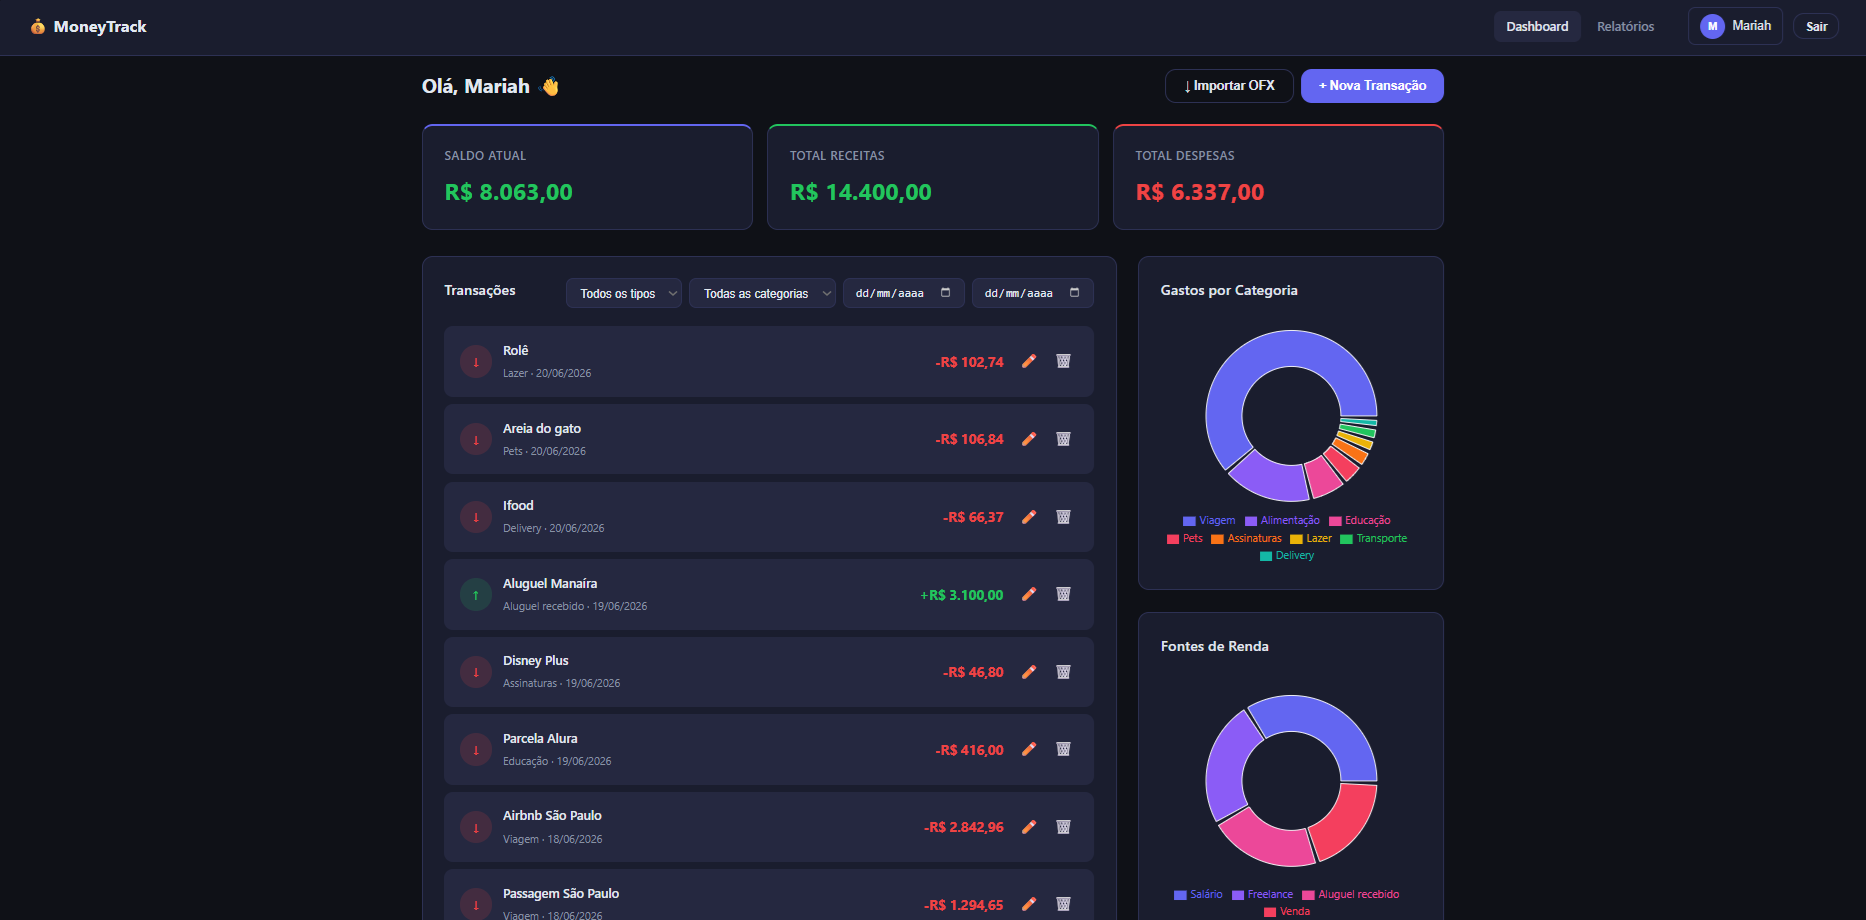
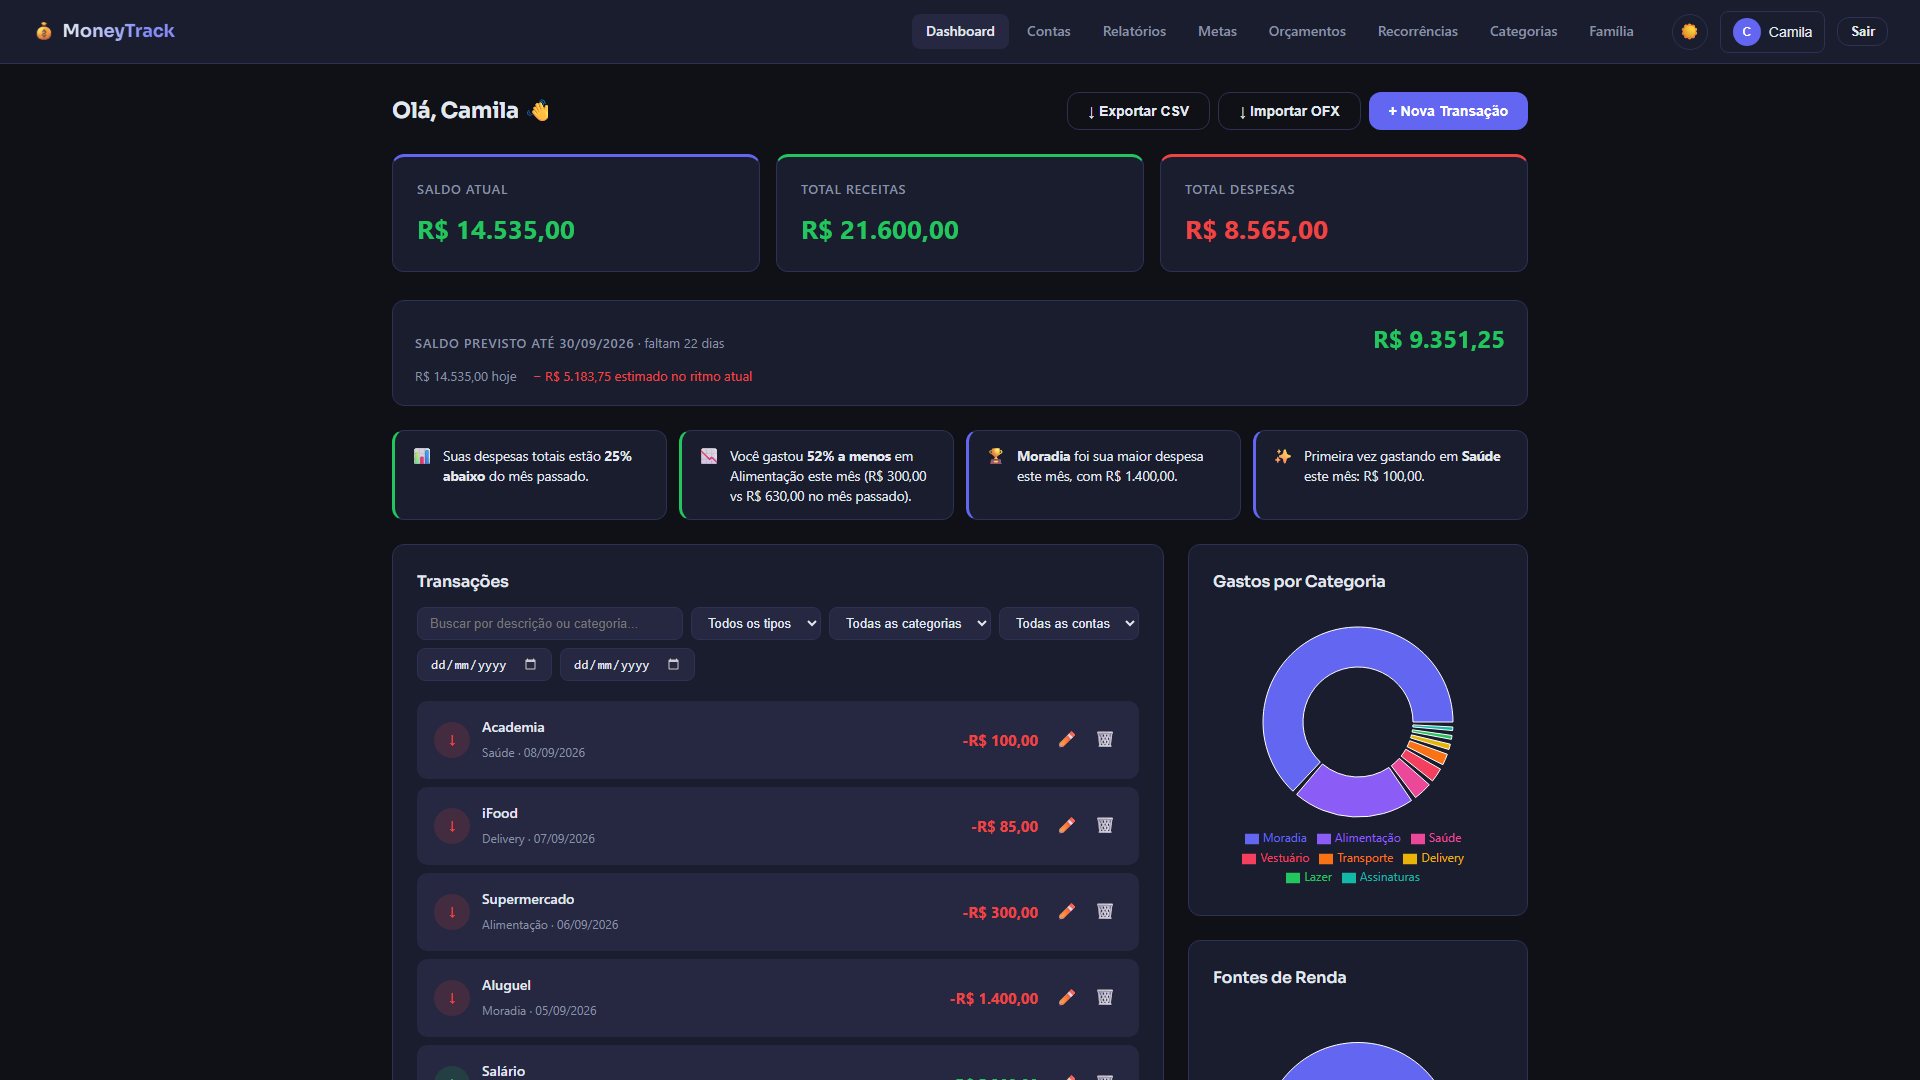
docs: atualiza landing page e screenshots com as novas funcionalidades
- Adiciona 10 novos cards de funcionalidade na Landing (insights automáticos, sincronização Open Finance, projeção de saldo, relatório em PDF, categorias personalizadas, anexo de comprovante, histórico de edição, aviso de orçamento por e-mail, contas compartilhadas e instalação no celular)
- Atualiza o texto do hero e da seção "O que é o MoneyTrack" pra mencionar sincronização bancária, compartilhamento em família e instalação via PWA
- Atualiza moneytrack_dashboard.png, moneytrack_relatorio.png, moneytrack_landing.png e moneytrack_perfil.png com capturas do app atual (conta de demonstração com histórico de 4 meses, metas e orçamentos), substituindo as capturas antigas de antes do Tier 2/3/4

diff --git a/frontend/src/pages/Landing.jsx b/frontend/src/pages/Landing.jsx
@@ -64,7 +64,7 @@ export default function Landing() {
 
       <section className="hero">
         <h1>Controle suas finanças<br /><span className="gradient-text">com inteligência</span></h1>
-        <p>Registre receitas e despesas, importe extratos bancários e acompanhe relatórios com gráficos para tomar decisões financeiras mais conscientes — na web ou no desktop.</p>
+        <p>Registre receitas e despesas, sincronize com seu banco, acompanhe insights automáticos e compartilhe a carteira com sua família — na web, no desktop ou instalado no celular.</p>
         <div className="hero-actions">
           <Link to="/cadastro" className="btn btn-primary btn-lg">Usar a versão web</Link>
           {!isDesktopApp && <a href="#desktop" className="btn btn-outline btn-lg">⬇ Baixar para desktop</a>}
@@ -74,8 +74,8 @@ export default function Landing() {
       <section id="sobre" className="about">
         <div className="about-text">
           <h2>O que é o MoneyTrack?</h2>
-          <p>O MoneyTrack é uma aplicação de gestão financeira pessoal criada para ajudar você a entender para onde vai o seu dinheiro. Cadastre receitas e despesas, importe extratos bancários em formato OFX e acompanhe o saldo atualizado automaticamente, com gráficos que mostram a evolução dos seus gastos mês a mês.</p>
-          <p>Disponível como aplicação web, acessível de qualquer navegador, ou como app desktop instalável — sem precisar manter abas abertas no navegador.</p>
+          <p>O MoneyTrack é uma aplicação de gestão financeira pessoal criada para ajudar você a entender para onde vai o seu dinheiro. Cadastre receitas e despesas, importe extratos bancários ou sincronize direto com seu banco via Open Finance, e acompanhe o saldo atualizado automaticamente — com insights automáticos, projeção de saldo e gráficos que mostram a evolução dos seus gastos mês a mês.</p>
+          <p>Disponível como aplicação web, acessível de qualquer navegador, como app desktop instalável ou direto no celular via PWA — e pode ser compartilhado com sua família, todo mundo vendo e lançando na mesma carteira.</p>
         </div>
         <div className="browser-frame">
           <div className="browser-frame-bar">
@@ -153,6 +153,56 @@ export default function Landing() {
             <div className="feature-icon">👤</div>
             <h3>Perfil personalizável</h3>
             <p>Edite nome, e-mail e senha a qualquer momento nas configurações da sua conta.</p>
+          </div>
+          <div className="feature-card">
+            <div className="feature-icon">💡</div>
+            <h3>Insights automáticos</h3>
+            <p>O dashboard aponta sozinho quando um orçamento estoura, um gasto sobe muito ou uma meta está quase batendo.</p>
+          </div>
+          <div className="feature-card">
+            <div className="feature-icon">🏦</div>
+            <h3>Sincronização bancária (Open Finance)</h3>
+            <p>Conecte sua conta no banco via Open Finance e importe contas e transações automaticamente, com saldo sempre atualizado.</p>
+          </div>
+          <div className="feature-card">
+            <div className="feature-icon">🔮</div>
+            <h3>Projeção de saldo</h3>
+            <p>Veja uma estimativa de como o saldo deve fechar o mês, combinando recorrências futuras com o ritmo atual de gastos.</p>
+          </div>
+          <div className="feature-card">
+            <div className="feature-icon">🧾</div>
+            <h3>Relatório em PDF</h3>
+            <p>Baixe um PDF do fechamento mensal com resumo, gráficos e a lista de transações, pronto pra guardar ou compartilhar.</p>
+          </div>
+          <div className="feature-card">
+            <div className="feature-icon">🎨</div>
+            <h3>Categorias personalizadas</h3>
+            <p>Crie, renomeie e escolha ícone e cor pras suas categorias — do jeito que fizer mais sentido pra você.</p>
+          </div>
+          <div className="feature-card">
+            <div className="feature-icon">📎</div>
+            <h3>Anexo de comprovante</h3>
+            <p>Anexe uma foto ou PDF do comprovante em qualquer transação, direto pelo celular ou computador.</p>
+          </div>
+          <div className="feature-card">
+            <div className="feature-icon">🕓</div>
+            <h3>Histórico de edição</h3>
+            <p>Toda edição em uma transação fica registrada — o que mudou, quando e pra qual valor.</p>
+          </div>
+          <div className="feature-card">
+            <div className="feature-icon">✉</div>
+            <h3>Aviso de orçamento por e-mail</h3>
+            <p>Receba um e-mail automático quando o gasto de uma categoria ultrapassar o orçamento definido.</p>
+          </div>
+          <div className="feature-card">
+            <div className="feature-icon">👨👩👧</div>
+            <h3>Contas compartilhadas</h3>
+            <p>Compartilhe a mesma carteira com sua família usando um código — todo mundo vê e lança na mesma conta.</p>
+          </div>
+          <div className="feature-card">
+            <div className="feature-icon">📲</div>
+            <h3>Instalável no celular</h3>
+            <p>Instale o MoneyTrack direto do navegador do celular, como um app — sem precisar de loja de aplicativos.</p>
           </div>
         </div>
       </section>
